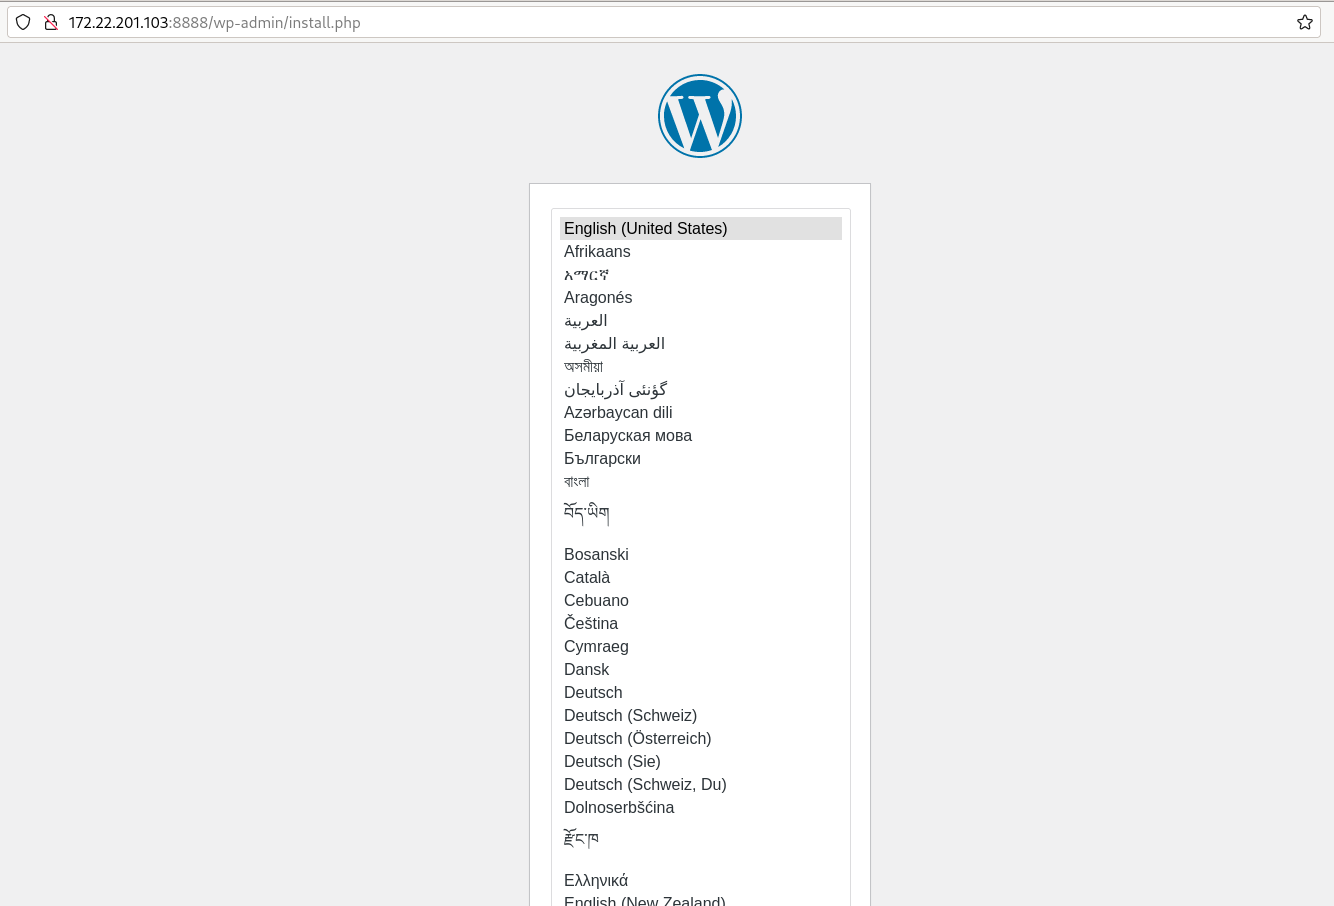
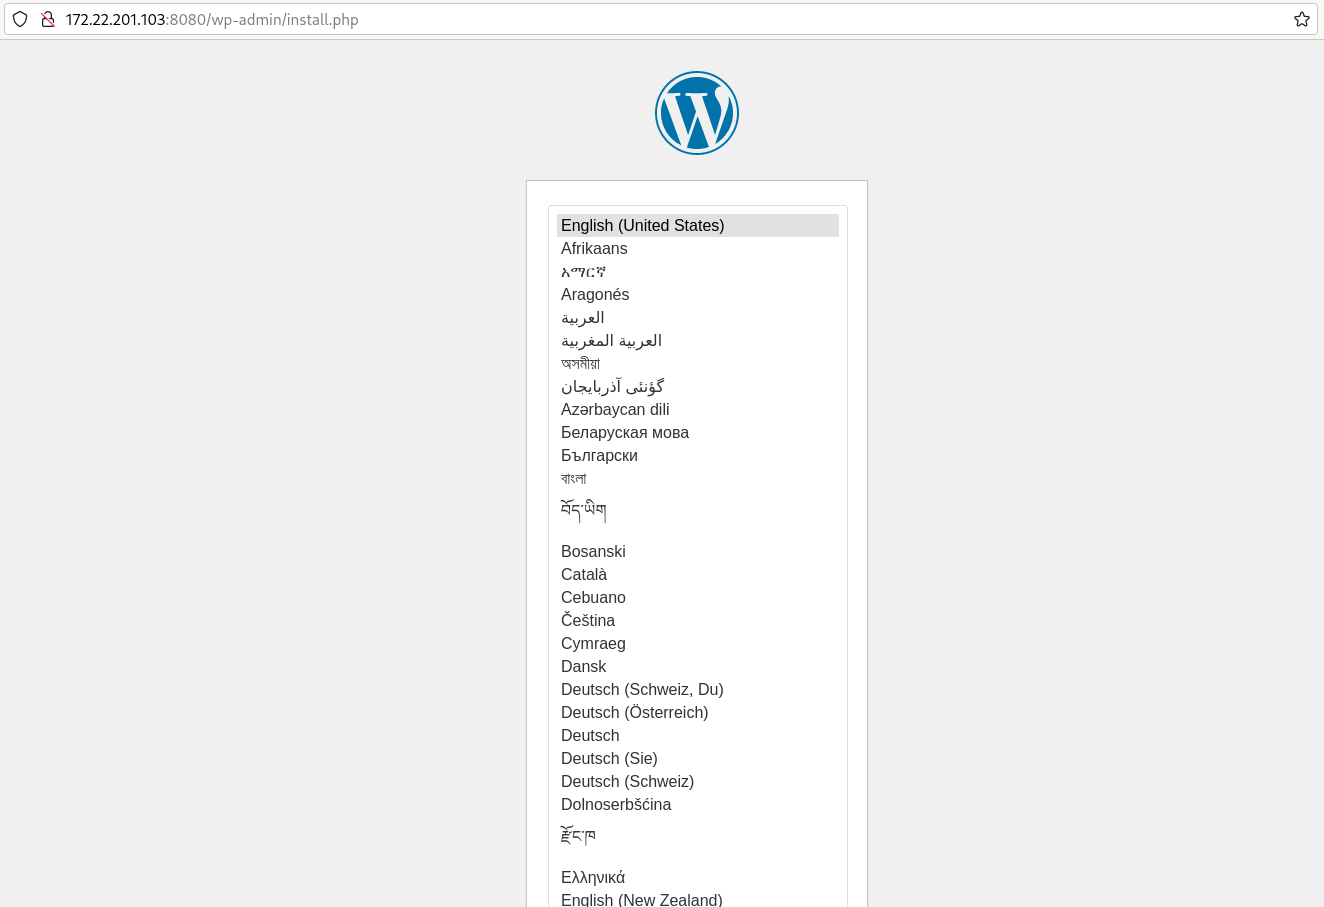
Modulo5

Changed region(s): [[0.4026, 0.2163, 0.6503, 0.9272], [0.0, 0.0, 1.0, 0.1854], [0.4026, 0.9581, 0.5574, 1.0]]

diff --git a/contenido/modulo5/wordpress2.md b/contenido/modulo5/wordpress2.md
@@ -20,27 +20,27 @@ $ sudo podman network create red_wp
 A continuación vamos a crear los dos Pods:
 
 ```
-$ sudo podman pod create --name pod-bd -p 3306:3306 --network red_wp
-$ sudo podman pod create --name pod-wp -p 8889:80 --network red_wp
+$ sudo podman pod create --name mariadb-pod -p 3306:3306 --network red_wp
+$ sudo podman pod create --name wordpress-pod -p 8080:80 --network red_wp
 ```
 
 A continuación añadimos el contenedor a cada Pod:
 
 ```
-$ sudo podman run --pod pod-bd -d --name servidor_mariadb \
-                -v vol-data:/var/lib/mysql \
-                -e MARIADB_DATABASE=bd_wp \
-                -e MARIADB_USER=user_wp \
-                -e MARIADB_PASSWORD=asdasd \
-                -e MARIADB_ROOT_PASSWORD=asdasd \
+$ sudo podman run --pod mariadb-pod -d --name db \
+                -v dbvol:/var/lib/mysql \
+                -e MARIADB_DATABASE=wordpress \
+                -e MARIADB_USER=wordpress \
+                -e MARIADB_PASSWORD=wordpress \
+                -e MARIADB_ROOT_PASSWORD=myrootpasswd \
                 docker.io/mariadb
 
-$ sudo podman  run --pod pod-wp -d --name servidor_wp \
-                -v vol-wp:/var/www/html \
-                -e WORDPRESS_DB_HOST=pod-bd \
-                -e WORDPRESS_DB_USER=user_wp \
-                -e WORDPRESS_DB_PASSWORD=asdasd \
-                -e WORDPRESS_DB_NAME=bd_wp \
+$ sudo podman  run --pod wordpress-pod -d --name wordpress \
+                -v wpvol:/var/www/html \
+                -e WORDPRESS_DB_HOST=mariadb-pod \
+                -e WORDPRESS_DB_USER=wordpress \
+                -e WORDPRESS_DB_PASSWORD=wordpress \
+                -e WORDPRESS_DB_NAME=wordpress \
                 docker.io/wordpress
 ```
 
@@ -48,18 +48,18 @@ Vemos los Pods y contenedores que hemos creado:
 
 ```
 $ sudo podman pod ps --ctr-names
-POD ID        NAME        STATUS      CREATED        INFRA ID      NAMES
-4539e047ef62  pod-bd      Running     2 minutes ago  7ee82573c019  4539e047ef62-infra,servidor_mariadb
-9646085b179e  pod-wp      Running     8 minutes ago  4274fc776781  9646085b179e-infra,servidor_wp
+POD ID        NAME               STATUS      CREATED        INFRA ID      NAMES
+4539e047ef62  mariadb-pod        Running     2 minutes ago  7ee82573c019  4539e047ef62-infra,db
+9646085b179e  wordpress-pod      Running     8 minutes ago  4274fc776781  9646085b179e-infra,wordpress
 
 $ sudo podman ps --pod
 CONTAINER ID  IMAGE                                    COMMAND               CREATED             STATUS             PORTS                   NAMES               POD ID        PODNAME
-4274fc776781  localhost/podman-pause:4.9.4-1711445992                        9 minutes ago       Up 6 minutes       0.0.0.0:8889->80/tcp    9646085b179e-infra  9646085b179e  pod-wp
-7ee82573c019  localhost/podman-pause:4.9.4-1711445992                        2 minutes ago       Up About a minute  0.0.0.0:3306->3306/tcp  4539e047ef62-infra  4539e047ef62  pod-bd
-2d10f3953300  docker.io/library/mariadb:latest         mariadbd              About a minute ago  Up About a minute  0.0.0.0:3306->3306/tcp  servidor_mariadb    4539e047ef62  pod-bd
-9a9dee02cb0a  docker.io/library/wordpress:latest       apache2-foregroun...  38 seconds ago      Up 38 seconds      0.0.0.0:8889->80/tcp    servidor_wp         9646085b179e  pod-wp
-```
+4274fc776781  localhost/podman-pause:4.9.4-1711445992                        9 minutes ago       Up 6 minutes       0.0.0.0:8080->80/tcp    9646085b179e-infra  9646085b179e  wordpress-pod
+7ee82573c019  localhost/podman-pause:4.9.4-1711445992                        2 minutes ago       Up About a minute  0.0.0.0:3306->3306/tcp  4539e047ef62-infra  4539e047ef62  mariadb-pod
+2d10f3953300  docker.io/library/mariadb:latest         mariadbd              About a minute ago  Up About a minute  0.0.0.0:3306->3306/tcp  db                  4539e047ef62  mariadb-pod
+9a9dee02cb0a  docker.io/library/wordpress:latest       apache2-foregroun...  38 seconds ago      Up 38 seconds      0.0.0.0:8080->80/tcp    wordpress           9646085b179e  wordpress-pod
+``` 
 
 Y comprobamos que podemos acceder a la aplicación:
 
-![wp](img/wp2.png)
+![wp](img/wp.png)

diff --git a/contenido/modulo5/wordpress.md b/contenido/modulo5/wordpress.md
@@ -32,14 +32,14 @@ Vemos los Pods y contenedores que hemos creado:
 
 ```
 $ sudo podman pod ps --ctr-names
-POD ID        NAME        STATUS      CREATED         INFRA ID      NAMES
+POD ID        NAME               STATUS      CREATED         INFRA ID      NAMES
 d1d937d15358  wordpress-pod      Running     3 minutes ago   27326c5e4a67  d1d937d15358-infra,db,wordpress
 
 $ sudo podman ps --pod
 CONTAINER ID  IMAGE                                    COMMAND               CREATED        STATUS        PORTS                 NAMES               POD ID        PODNAME
 27326c5e4a67  localhost/podman-pause:4.9.4-1711445992                        3 minutes ago  Up 2 minutes  0.0.0.0:8080->80/tcp  d1d937d15358-infra  d1d937d15358  wordpress-pod
-cd4aea32b99f  docker.io/library/mariadb:latest         mariadbd              3 minutes ago  Up 2 minutes  0.0.0.0:8080->80/tcp  db          d1d937d15358  wordpress-pod
-bb71fd462b64  docker.io/library/wordpress:latest       apache2-foregroun...  2 minutes ago  Up 2 minutes  0.0.0.0:8080->80/tcp  wordpress         d1d937d15358  wordpress-pod
+cd4aea32b99f  docker.io/library/mariadb:latest         mariadbd              3 minutes ago  Up 2 minutes  0.0.0.0:8080->80/tcp  db                  d1d937d15358  wordpress-pod
+bb71fd462b64  docker.io/library/wordpress:latest       apache2-foregroun...  2 minutes ago  Up 2 minutes  0.0.0.0:8080->80/tcp  wordpress           d1d937d15358  wordpress-pod
 ```
 
 Y comprobamos que podemos acceder a la aplicación:
